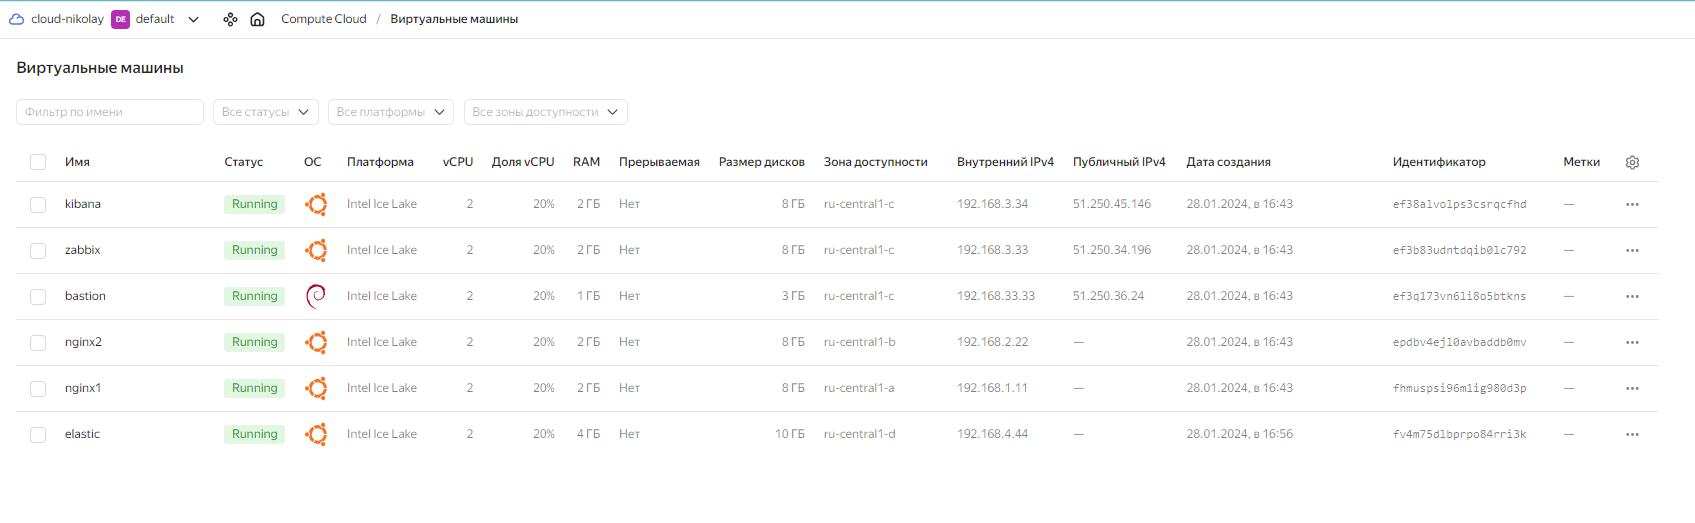
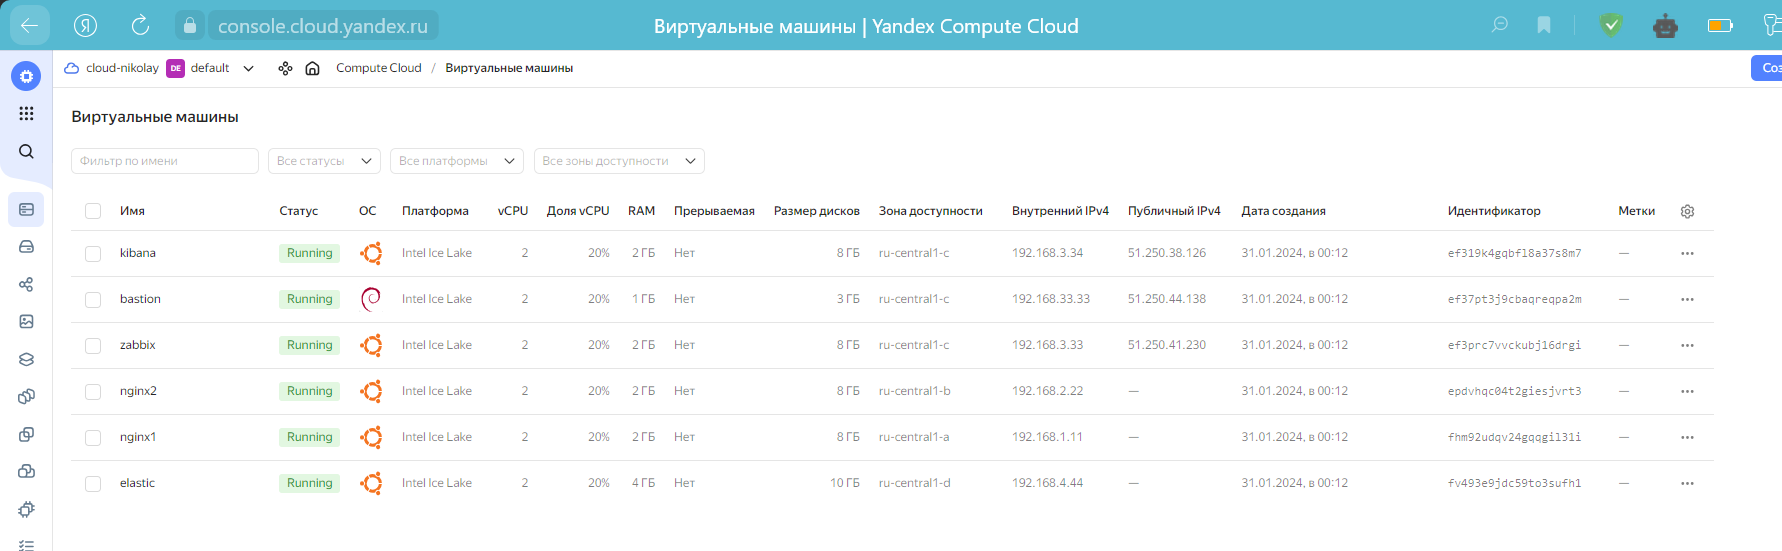
edit README and add images

diff --git a/ansible/my_web_site/index.nginx-debian.html b/ansible/my_web_site/index.nginx-debian.html
@@ -10,7 +10,7 @@ font-family: Tahoma, Verdana, Arial, sans-serif; }
 </style>
 </head>
 <body>
-<h3>Дипрломная работа по курсу <br>"Системный администратор" <br> Концевой Н.Ю. <br> <h1>Добро пожаловать на страницу!</h1>
+<h3>Дипломная работа по курсу <br>"Системный администратор" <br> Концевой Н.Ю. <br> <h1>Добро пожаловать на страницу!</h1>
 <p>Сервер: 1 <br>ip: 192.168.1.11</p>
 </body>
 </html>

diff --git a/README.md b/README.md
@@ -19,19 +19,21 @@
 
 
 <details>
-<summary> </summary>
+<summary> Скриншот(-ы) </summary>
 
 ![список вм](https://github.com/Stitchzxz/final_work/blob/main/img/VM_list.png)
 
 </details>
 
-  
-
-</details>
 
 ### 1.2. Балансировщик нагрузки для вебсерверов
 
+<details>
+<summary> Скриншот(-ы) </summary>
+
 ![балансировщик](https://github.com/Stitchzxz/final_work/blob/main/img/alb.png)
+
+</details>
 
 
 ### 1.3. Группы безопасности для ограничения доступности хостов по определенным портам
@@ -41,13 +43,25 @@
   - kibana-sg (разрешен доступ на порты 22, 10050, 5601)
   - bastion-sg (разрешен доступ на 22 порт)
 
+<details>
+<summary> Скриншот(-ы) </summary>
+
 ![группы безопасности](https://github.com/Stitchzxz/final_work/blob/main/img/security_groups.png)
+
+</details>
 
 ### 1.4. Расписание создания снапшотов дисков со всех виртуальных машин
   - создано расписание на ежедневное создание снапшотов в 20:00 по московскому времени
   - хранение снапшотов 7 дней
 
+
+<details>
+<summary> Скриншот(-ы) </summary>
+
 ![снимки дисков](https://github.com/Stitchzxz/final_work/blob/main/img/schedule.png)
+
+</details>
+
 
 ### 1.5. Сеть и 4 подсети в разных зонах доступности для обеспечения отказоустойчивости.
     распределение ВМ в сети:
@@ -58,12 +72,23 @@
   - kibana (зона c, публичная сеть, имеет внутренний IP 192.168.3.34 и внешний IP <назначается автоматически> )
   - bastion (зона c, публичная сеть, имеет внутренний IP 192.168.33.33 и внешний IP <назначается автоматически> )
 
-![Карта сети](https://github.com/Stitchzxz/final_work/blob/main/img/network_map.png)
+<details>
+<summary> Скриншот(-ы) </summary>
+
+![Карта сети](https://github.com/Stitchzxz/final_work/blob/main/img/network1.png)
+
+</details>
+
 
 ### 1.6. Шлюз (для доступа в интернет вм расположенных в приватных сетях)
 
+<details>
+<summary> Скриншот(-ы) </summary>
 
-<скриншоты>
+![Карта сети](https://github.com/Stitchzxz/final_work/blob/main/img/network_map.png)
+
+</details>
+
 
 
 
@@ -71,43 +96,108 @@
 
 *Ansible настроен на Bastion host и вся установка происходит с него.
 
-### 2.1. [nginx_pb.yml](https://github.com/Stitchzxz/final_work/blob/main/ansible/nginx_pb.yml) 
+### 2.1. [inventory.ini](https://github.com/Stitchzxz/final_work/blob/main/ansible/inventory.ini)
+  - содержит список удаленных хостов для подключения к ним и установки необходимых программ
+
+### 2.2. [ping_pb.yml](https://github.com/Stitchzxz/final_work/blob/main/ansible/ping_pb.yml) (был добавлен для удобства)
+  - проверяет доступность хостов
+
+<details>
+<summary> Скриншот(-ы) </summary>
+
+![пинг](https://github.com/Stitchzxz/final_work/blob/main/img/ping.png)
+
+</details>
+
+### 2.3. [nginx_pb.yml](https://github.com/Stitchzxz/final_work/blob/main/ansible/nginx_pb.yml) 
   - устанавливает nginx на две виртуальные машины состоящие в группе web_servers
   - копирует c локального хоста страницу для отображения при обращении на ip адрес балансировщика
-* Проверка работоспособности [тут](http://158.160.139.201:80)
+* Проверка работоспособности [тут](http://158.160.144.65:80)
 
-### 2.2. [zabbix_pb.yml](https://github.com/Stitchzxz/final_work/blob/main/ansible/zabbix_pb.yml)
+<details>
+<summary> Скриншот(-ы) </summary>
+
+![веб страница](https://github.com/Stitchzxz/final_work/blob/main/img/web_page.png)
+
+</details>
+
+
+### 2.4. [zabbix_pb.yml](https://github.com/Stitchzxz/final_work/blob/main/ansible/zabbix_pb.yml)
   - добавляет репозиторий zabbix
   - устанавливает на хост zabbix -  zabbix server, zabbix agent, mysql, nginx и прочие зависимости
   - создает базу данных, пользователя, задает пароль
 
-### 2.3. [zabbix_agent_pb.yml](https://github.com/Stitchzxz/final_work/blob/main/ansible/zabbix_agent_pb.yml)
+<details>
+<summary> Скриншот(-ы) </summary>
+
+![установка zabbix](https://github.com/Stitchzxz/final_work/blob/main/img/install_zabbix_server.png)
+![установка zabbix](https://github.com/Stitchzxz/final_work/blob/main/img/finish_install_zabbix.png)
+
+</details>
+
+
+### 2.5. [zabbix_agent_pb.yml](https://github.com/Stitchzxz/final_work/blob/main/ansible/zabbix_agent_pb.yml)
   - добавляет репозиторий zabbix
   - устанавливает zabbix agent на все хосты
   - вносит корректировку в файл конфигурации
+*Ссылка на админку [zabbix](http://51.250.41.230:8080)
 
-### 2.4. [elasticsearch_pb.yml](https://github.com/Stitchzxz/final_work/blob/main/ansible/elasticsearch_pb.yml)
+<details>
+<summary> Скриншот(-ы) </summary>
+
+![установка zabbix-agent](https://github.com/Stitchzxz/final_work/blob/main/img/insinstall_zabbix_agent.png)
+![установка zabbix-agent](https://github.com/Stitchzxz/final_work/blob/main/img/enable_zabagent.png)
+![установка zabbix-agent](https://github.com/Stitchzxz/final_work/blob/main/img/dashboard_zabbix.png)
+
+</details>
+
+### 2.6. [elasticsearch_pb.yml](https://github.com/Stitchzxz/final_work/blob/main/ansible/elasticsearch_pb.yml)
   - скачивает и добавляет ключ gpg elasticsearch
   - добавляет репозиторий elasticsearch 8.x
   - устанавливает elasticsearch и зависимости
   - корректирует конфигурационный файл
 
-### 2.5. [kibana_pb.yml](https://github.com/Stitchzxz/final_work/blob/main/ansible/kibana_pb.yml)
+<details>
+<summary> Скриншот(-ы) </summary>
+
+![установка elastic](https://github.com/Stitchzxz/final_work/blob/main/img/install_elastic.png)
+![установка elastic](https://github.com/Stitchzxz/final_work/blob/main/img/elastic_status.png)
+
+</details>
+
+### 2.7. [kibana_pb.yml](https://github.com/Stitchzxz/final_work/blob/main/ansible/kibana_pb.yml)
   - скачивает и добавляет ключ gpg elasticsearch
   - добавляет репозиторий elasticsearch 8.x
   - устанавливает kibana и зависимости
   - корректирует конфигурационный файл 
-*Для подключения kibana к elasticsearh необходимо сгенерировать токек на хосте elastik. Также необходимо сгенерировать новый пароль и ввести его вместе с логином в вебинтерфейсе kibana для авторизации http://<ip_kibana>:5601 
+*Для подключения kibana к elasticsearh необходимо сгенерировать токек на хосте elastik. Также необходимо сгенерировать новый пароль и ввести его вместе с логином в вебинтерфейсе kibana для авторизации. Ссылка на админку [kibana](http://51.250.38.126:5601)
 
-### 2.6. [filebeat_pb.yml](https://github.com/Stitchzxz/final_work/blob/main/ansible/filebeat_pb.yml)
+
+
+<details>
+<summary> Скриншот(-ы) </summary>
+
+![установка kibana](https://github.com/Stitchzxz/final_work/blob/main/img/install_kibana.png)
+![установка kibana](https://github.com/Stitchzxz/final_work/blob/main/img/kibana_status.png)
+![установка kibana](https://github.com/Stitchzxz/final_work/blob/main/img/kibana_web.png)
+
+</details>
+
+### 2.8. [filebeat_pb.yml](https://github.com/Stitchzxz/final_work/blob/main/ansible/filebeat_pb.yml)
   - скачивает и добавляет ключ gpg elasticsearch
   - добавляет репозиторий elasticsearch 8.x
   - устанавливает filebeat и зависимости
   - копирует с локального хоста конфигурационный файл  
 *Для подключения filebeat к elasticsearh необходимо добавить вышеуказанный пароль в конфигурационный файл и перезагрузить сервис.
 
-### 2.7. [ping_pb.yml](https://github.com/Stitchzxz/final_work/blob/main/ansible/ping_pb.yml) (был добавлен для удобства)
-  - проверяет доступность хостов
+<details>
+<summary> Скриншот(-ы) </summary>
+
+![установка filebeat](https://github.com/Stitchzxz/final_work/blob/main/img/install_filebeat.png)
+![установка filebeat](https://github.com/Stitchzxz/final_work/blob/main/img/filebeat_status.png)
+![установка filebeat](https://github.com/Stitchzxz/final_work/blob/main/img/filebeat_web.png)
+
+</details>
 
 
 
